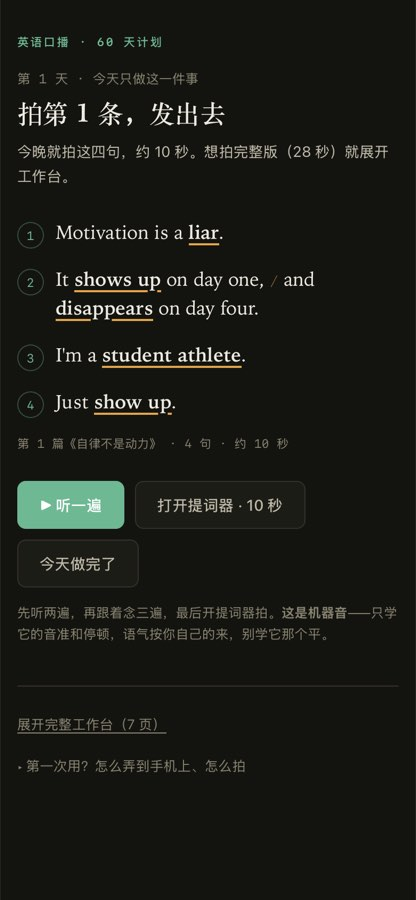
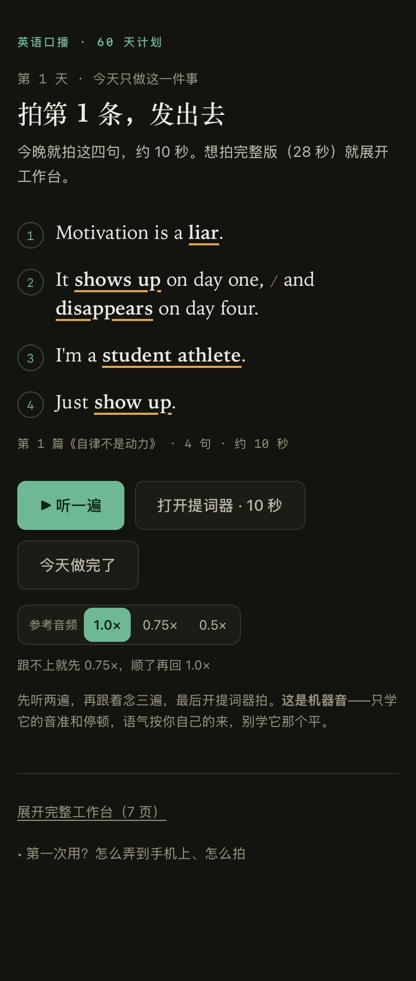
单页里也能调参考音频倍速（两处同步）；修深色主题白字压浅绿 2.34:1、浅色主题小号琥珀字 3.2:1，两套主题逐元素重扫 0 处低于 4.5:1

diff --git a/english-oral-lab.html b/english-oral-lab.html
@@ -7,10 +7,10 @@
 <style>
 :root{
   --bg:#f6f4ee; --panel:#ffffff; --panel2:#fbfaf6;
-  --ink:#1b1a17; --ink2:#4a4841; --ink3:#726e5c;
+  --ink:#1b1a17; --ink2:#4a4841; --ink3:#6b6755;
   --line:#e4e0d5; --line2:#efece3;
-  --brand:#1f5a46; --brand-soft:#e6efe9;
-  --amber:#b8741a; --amber-soft:#fbf0dd;
+  --brand:#1f5a46; --brand-soft:#e6efe9; --onbrand:#fff;
+  --amber:#8f5c12; --amber-soft:#fbf0dd;
   --cut:#8a5510;
   --red:#a3372a;
   --mono:"SF Mono",ui-monospace,Menlo,Consolas,monospace;
@@ -21,9 +21,9 @@
 @media (prefers-color-scheme: dark){
   :root{
     --bg:#14140f; --panel:#1c1c16; --panel2:#20201a;
-    --ink:#eeece2; --ink2:#bdb9a9; --ink3:#8e8a78;
+    --ink:#eeece2; --ink2:#bdb9a9; --ink3:#96927d;
     --line:#33322a; --line2:#2a2922;
-    --brand:#6fb894; --brand-soft:#1e2d26;
+    --brand:#6fb894; --brand-soft:#1e2d26; --onbrand:#0f2419;
     --amber:#e0a54a; --amber-soft:#2c2415;
     --cut:#e0a54a;
     --red:#d9786a;
@@ -105,7 +105,7 @@ td b{color:var(--ink)}
 .pillars{display:flex;flex-wrap:wrap;gap:7px;margin:6px 0 18px}
 .pbtn{border:1px solid var(--line);background:var(--panel);color:var(--ink2);font-size:12.5px;padding:7px 12px;border-radius:999px;cursor:pointer;font-family:var(--sans);transition:.15s}
 .pbtn:hover{border-color:var(--brand)}
-.pbtn.on{background:var(--brand);border-color:var(--brand);color:#fff;font-weight:600}
+.pbtn.on{background:var(--brand);border-color:var(--brand);color:var(--onbrand);font-weight:600}
 .topic{display:flex;gap:13px;padding:13px 0;border-bottom:1px solid var(--line2)}
 .topic:last-child{border-bottom:0}
 .tno{font-family:var(--mono);font-size:11px;color:var(--ink3);padding-top:3px;min-width:22px}
@@ -165,8 +165,8 @@ td b{color:var(--ink)}
 .btnrow{display:flex;flex-wrap:wrap;gap:8px;margin-top:16px}
 .btn{border:1px solid var(--line);background:var(--panel);color:var(--ink2);font-family:var(--sans);font-size:13px;padding:8px 14px;border-radius:8px;cursor:pointer;transition:.15s;font-weight:500;min-height:40px;display:inline-flex;align-items:center;justify-content:center;line-height:1.25}
 .btn:hover{border-color:var(--brand);color:var(--brand)}
-.btn.primary{background:var(--brand);border-color:var(--brand);color:#fff}
-.btn.primary:hover{opacity:.9;color:#fff}
+.btn.primary{background:var(--brand);border-color:var(--brand);color:var(--onbrand)}
+.btn.primary:hover{opacity:.9;color:var(--onbrand)}
 .btn.on{background:var(--brand-soft);border-color:var(--brand);color:var(--brand)}
 
 /* ---------- pronunciation ---------- */
@@ -186,7 +186,7 @@ td b{color:var(--ink)}
 @media(min-width:560px){.grid30{grid-template-columns:repeat(10,minmax(0,1fr));gap:5px}}
 .grid30 .day{aspect-ratio:1;min-width:0;border:1px solid var(--line);background:var(--panel);border-radius:7px;display:flex;align-items:center;justify-content:center;font-family:var(--mono);font-size:11px;color:var(--ink3);cursor:pointer;transition:.12s;user-select:none}
 .grid30 .day:hover{border-color:var(--brand)}
-.grid30 .day.done{background:var(--brand);border-color:var(--brand);color:#fff;font-weight:600}
+.grid30 .day.done{background:var(--brand);border-color:var(--brand);color:var(--onbrand);font-weight:600}
 .grid30 .day.today{border-color:var(--amber);border-width:2px;color:var(--amber);font-weight:700}
 .hint{font-size:12px;color:var(--ink3);margin-top:6px}
 
@@ -238,11 +238,11 @@ td b{color:var(--ink)}
 .ratebox{display:inline-flex;align-items:center;gap:2px;border:1px solid var(--line);border-radius:10px;padding:2px 3px 2px 10px;background:var(--panel)}
 .ratebox .rl{font-size:11.5px;color:var(--ink3);font-family:var(--mono);margin-right:4px}
 .ratebox .rate{border:0;background:transparent;color:var(--ink2);font-family:var(--sans);font-size:12.5px;padding:7px 9px;border-radius:8px;cursor:pointer;min-height:32px;line-height:1.2}
-.ratebox .rate.on{background:var(--brand);color:#fff;font-weight:600}
+.ratebox .rate.on{background:var(--brand);color:var(--onbrand);font-weight:600}
 .ratebox .rate:hover:not(.on){color:var(--brand)}
 .dlink{border:0;background:var(--brand-soft);color:var(--brand);font-family:var(--sans);font-size:11.5px;
   padding:4px 8px;border-radius:20px;cursor:pointer;white-space:nowrap;min-height:26px}
-.dlink:hover{background:var(--brand);color:#fff}
+.dlink:hover{background:var(--brand);color:var(--onbrand)}
 .drill.flash{animation:flash2 1.2s ease}
 @keyframes flash2{0%,100%{box-shadow:0 0 0 0 transparent}30%{box-shadow:0 0 0 3px var(--amber)}}
 
@@ -276,7 +276,7 @@ footer{text-align:center;padding:40px 16px 20px;color:var(--ink3);font-size:12px
 /* 分级自测 */
 .lvlblock{border:1px solid var(--line);border-radius:var(--r);overflow:hidden;margin:11px 0;background:var(--panel)}
 .lvlhead{background:var(--panel2);padding:8px 14px;font-family:var(--mono);font-size:11px;letter-spacing:.07em;color:var(--ink2);border-bottom:1px solid var(--line2);display:flex;gap:8px;align-items:center}
-.lvlhead .lv{background:var(--brand);color:#fff;border-radius:4px;padding:1px 6px;font-weight:700}
+.lvlhead .lv{background:var(--brand);color:var(--onbrand);border-radius:4px;padding:1px 6px;font-weight:700}
 .lvlblock .strow{padding:9px 14px}
 
 /* 写稿骨架 */
@@ -357,8 +357,8 @@ footer{text-align:center;padding:40px 16px 20px;color:var(--ink3);font-size:12px
 .timer .lbl{font-size:12.5px;color:var(--ink3);flex:1;min-width:110px;line-height:1.4}
 .tbtn2{border:1px solid var(--line);background:var(--panel2);color:var(--ink2);font-size:12.5px;padding:6px 12px;border-radius:8px;cursor:pointer;font-family:var(--sans);margin:0}
 .tbtn2:hover{border-color:var(--brand);color:var(--brand)}
-.tbtn2.pri{background:var(--brand);border-color:var(--brand);color:#fff}
-.tbtn2.pri:hover{opacity:.9;color:#fff}
+.tbtn2.pri{background:var(--brand);border-color:var(--brand);color:var(--onbrand)}
+.tbtn2.pri:hover{opacity:.9;color:var(--onbrand)}
 
 /* 分镜 */
 .shot{display:grid;grid-template-columns:80px 58px 1fr;gap:11px;padding:11px 0;border-bottom:1px dashed var(--line2);align-items:start}
@@ -372,7 +372,7 @@ footer{text-align:center;padding:40px 16px 20px;color:var(--ink3);font-size:12px
 /* 镜头类型 */
 .stype{display:flex;gap:11px;padding:10px 0;border-bottom:1px solid var(--line2);align-items:flex-start}
 .stype:last-child{border-bottom:0}
-.stype .k{font-family:var(--mono);font-size:13px;font-weight:700;color:#fff;background:var(--brand);width:26px;height:26px;border-radius:6px;display:flex;align-items:center;justify-content:center;flex:0 0 auto}
+.stype .k{font-family:var(--mono);font-size:13px;font-weight:700;color:var(--onbrand);background:var(--brand);width:26px;height:26px;border-radius:6px;display:flex;align-items:center;justify-content:center;flex:0 0 auto}
 .stype .n{font-size:13.5px;color:var(--ink);font-weight:600;margin-bottom:2px}
 .stype .d{font-size:12.5px;color:var(--ink3);line-height:1.55}
 .stype .pc2{font-family:var(--mono);font-size:10px;color:var(--brand);margin-left:6px;font-weight:600}
@@ -440,6 +440,8 @@ footer{text-align:center;padding:40px 16px 20px;color:var(--ink3);font-size:12px
 .lite-acts{display:flex;gap:10px;flex-wrap:wrap}
 .lite-acts .btn{padding:13px 20px;font-size:14.5px}
 .lite-acts .btn.primary{font-weight:600}
+.lite-speed{display:flex;align-items:center;gap:10px;flex-wrap:wrap;margin-top:14px}
+.lite-speed-hint{font-size:12px;color:var(--ink3);line-height:1.5}
 .lite-foot{margin-top:38px;padding-top:22px;border-top:1px solid var(--line)}
 .lite-link{background:none;border:0;padding:0;font-size:13px;color:var(--ink3);cursor:pointer;text-decoration:underline;text-underline-offset:3px;font-family:var(--sans)}
 .lite-link:hover{color:var(--brand)}
@@ -519,6 +521,15 @@ body:not(.lite-on) #lite{display:none !important}
     <button class="btn primary" id="litePlay">▶ 听一遍</button>
     <button class="btn" id="liteTp">看提词器</button>
     <button class="btn" id="liteDone">今天做完了</button>
+  </div>
+  <div class="lite-speed">
+    <span class="ratebox" id="liteRate" role="group" aria-label="参考音频速度">
+      <span class="rl">参考音频</span>
+      <button class="rate on" data-rate="1">1.0×</button>
+      <button class="rate" data-rate="0.75">0.75×</button>
+      <button class="rate" data-rate="0.5">0.5×</button>
+    </span>
+    <span class="lite-speed-hint">跟不上就先 0.75×，顺了再回 1.0×</span>
   </div>
   <p class="lite-tip">先听两遍，再跟着念三遍，最后开提词器拍。<b>这是机器音</b>——只学它的音准和停顿，语气按你自己的来，别学它那个平。</p>
   <div class="lite-foot">
@@ -2690,7 +2701,7 @@ let audioRate = Number(LS.get("rate", 1));
 if([1, 0.75, 0.5].indexOf(audioRate) < 0) audioRate = 1;
 window.audioRateState = () => audioRate;
 function paintRate(){
-  $$("#ratebox .rate").forEach(b => b.classList.toggle("on", Number(b.dataset.rate) === audioRate));
+  $$(".rate").forEach(b => b.classList.toggle("on", Number(b.dataset.rate) === audioRate));
 }
 function setAudioRate(v){
   const n = Number(v);
@@ -3001,14 +3012,14 @@ $("#drills").innerHTML = DRILLS.map(d => `
 
 /* ---------- 参考音频速度：绑定 ---------- */
 (function(){
-  const box = $("#ratebox");
-  if(!box) return;
+  const boxes = ["#ratebox","#liteRate"].map(sel => $(sel)).filter(Boolean);
+  if(!boxes.length) return;
   paintRate();
-  box.addEventListener("click", e => {
+  boxes.forEach(box => box.addEventListener("click", e => {
     const b = e.target.closest("[data-rate]");
     if(!b) return;
     setAudioRate(b.dataset.rate);
-  });
+  }));
 })();
 
 /* ---------- 错音本 ---------- */

diff --git a/README.md b/README.md
@@ -23,13 +23,13 @@
 
 ### 打开长这样
 
-<img src="shots/first-screen.jpg" width="360" alt="手机打开的第一屏：今天只做这一件事，四句带重读标记，三个按钮">
+<img src="shots/first-screen.jpg" width="360" alt="手机打开的第一屏：今天只做这一件事，四句带重读标记，三个按钮，倍速 1.0×/0.75×/0.5×">
 
 第一次打开就是这一屏，不用注册、不用登录、不用往下翻。
 
-<details><summary>桌面宽屏（1280）长这样</summary>
+<details><summary>桌面宽屏长这样</summary>
 
-<img src="shots/desktop.jpg" width="720" alt="桌面 1280 宽的第一屏，内容列居中">
+<img src="shots/desktop.jpg" width="720" alt="桌面 1000 宽的第一屏，内容列居中，两边留白">
 
 </details>
 
@@ -39,13 +39,13 @@
 
 | 验过（真 WebKit 引擎里跑过一整个来回） | 还没验到 |
 |---|---|
-| 逻辑与数据一致性：jsdom 613 项断言全绿 + 真引擎 35 项检查（34 过，剩下那 1 项正是右列「媒体时钟被挂起」） | 扬声器真的出声（测试窗口 `visibilityState:hidden`，系统把媒体时钟挂起了） |
+| 逻辑与数据一致性：jsdom 631 项断言全绿 + 真引擎 50 项检查（这一轮 50 过；其中「播放进度在往前走」那条受测试窗口可见性影响，前几轮掉过一次） | 扬声器真的出声（测试窗口 `visibilityState:hidden`，系统把媒体时钟挂起了） |
 | 24 篇音频在真引擎里**逐个解码成功**，时长与标注一致（9.9 / 10.4 / 13.0 …秒） | 提词器按真实秒数滚完（后台窗口定时器被节流到 1Hz，只验到每 tick 位移对） |
 | 首访即单页模式；390 宽无横向溢出；主按钮 46px 高、复制/日期控件 ≥32px | 真正的分页（打印管线在测试环境里会无限分页，只验到版式） |
 | 7 个 tab、筛选、展开、提词器、打卡逐个真点，全程零 JS 报错 | iOS Safari 真机上的具体表现（引擎同源，但没实机） |
 | 打印版式：把 `@media print` 规则套到屏幕上渲染，白纸黑字、两栏 24 张速查卡、控件不印出来 | |
 | 打印页数按 A4 实测：**开拍卡 946px＝1 页、24 张速查卡 1806px＝2 页**，两个「打印这一页」各打各的 | |
-| 浅色/深色两套主题的正文对比度都 ≥ 4.5:1（逐元素算 WCAG 比值） | |
+| 对比度逐元素算 WCAG 比值（单页 + 7 个页、浅深两套主题各扫一遍）：**0 处低于 4.5:1**；填色主按钮 8.05:1（浅）/ 6.96:1（深）。深色主题原来白字压在浅绿上是 **2.34:1**，改成深色字；浅色主题的小号琥珀字是 3.22–3.35，压到了 4.5 以上 | |
 
 右列那几条「还没验到」都是**测试环境**的限制（窗口不可见 / 定时器被节流 / 打印管线会无限分页 / 没有 iPhone），不是代码里已知的坑。**你用一次就全知道了。**
 
@@ -57,7 +57,7 @@
 
 - **定位** → 体育生用英语讲自律，反差就是护城河；附账号装修、拍摄 SOP、发布话术
 - **选题库** → 40 条按五个支柱分类，每条配一句能直接当开场白的英文；附「选题 → 稿子」10 分钟骨架、开场 5 公式、抽象词黑名单、词数算时长的计算器
-- **极简版 + 参考音频** → 24 篇稿子每篇都附一个 4 句 / 十几秒的「今晚就能拍完」版本，**每一条都内置了朗读音频**（慢速、带停顿），**每句都标出了重读词**（加粗 + 下划线），先听两遍再跟读，然后开提词器拍；**参考音频可切 1.0× / 0.75× / 0.5×**，跟读跟不上就先降速（选择会记住）
+- **极简版 + 参考音频** → 24 篇稿子每篇都附一个 4 句 / 十几秒的「今晚就能拍完」版本，**每一条都内置了朗读音频**（慢速、带停顿），**每句都标出了重读词**（加粗 + 下划线），先听两遍再跟读，然后开提词器拍；**参考音频可切 1.0× / 0.75× / 0.5×**，跟读跟不上就先降速；单页里就有一套，不用展开工作台，两处状态同步、选择会记住
 - **双语字幕一键复制** → 每篇都能一键复制「英文一行 + 中文一行」的逐句字幕，粘进剪映就能一句对一句，不用手打中文
 - **24 篇口播稿** → 够拍 60 天。第 1 个月 12 条（A/B 级，Day 1–29）起号，第 2 个月 12 条（B 级定型 + C 级放大，Day 32–59）往上走；英文全文带停顿点、逐句中译、难词音标、拍摄提示，可按月份筛
 - **先测再拍** → 8 句分级自测，用手机听写数「认错几个词」，直接算出你该从哪一级、哪一篇开始

diff --git a/口播-今晚就拍.md b/口播-今晚就拍.md
@@ -13,7 +13,7 @@
 3. I'm a **student athlete**.
 4. Just **show up**.
 
-念不顺就先只念第 1 句和第 4 句——两句也能拍。
+念不顺就先只念第 1 句和第 4 句——两句也能拍。还是跟不上，就去网页里把参考音频调到 **0.75×** 跟着念两遍，顺了再回 1.0× 拍。
 
 ---
 
@@ -74,7 +74,7 @@
 
 打开 `english-oral-lab.html`（同一目录下）：
 
-- 24 篇稿子，够拍 60 天，每篇都带朗读音频和重读标记
+- 24 篇稿子，够拍 60 天，每篇都带朗读音频（1.0× / 0.75× / 0.5× 可调）和重读标记
 - 7 组发音纠正、15 句发音自测
 - 逐秒分镜、24 张封面文案
 - 可打印的速查卡和开拍卡
